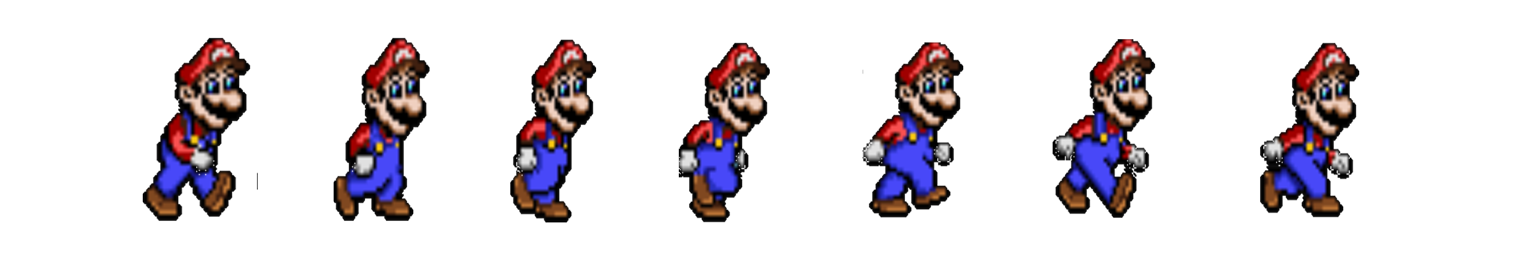
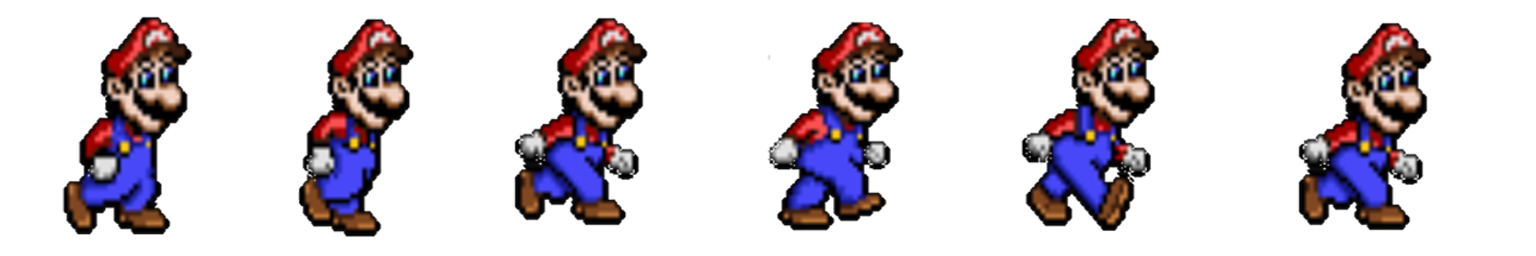
mario listo falta el fondo

diff --git a/mario.css b/mario.css
@@ -2,13 +2,18 @@
 {
   margin: 0;
   padding: 0;
+  background-image: url ("road.png");
 }
-body{
+body
+{
   display: flex;
   justify-content: center;
   align-items: center;
   min-height: 100vh;
-  background: radial-gradient(#9bdfff,#009be4);
+  /*background: radial-gradient(#9bdfff,#009be4);*/
+  
+  
+  
 }
 .infinite
 {
@@ -19,6 +24,7 @@ body{
   transform-origin: bottom;
   transform-style: preserve-3d;
   transform: perspective(500px) rotateX(30deg);
+  back
 }
 .infinite::before
 {
@@ -70,20 +76,20 @@ body{
 {
   position: relative;
   height: 256px;
-  width: calc(1536px / 7);/*aqui revisar*/
-  background: url(mario.PNG);
-  transform: perspective(500px) rotateX(-25deg) translateY(-150px);
+  width: calc(1400px / 6);/*aqui revisar*/
+  background: url(mario.png);
+  transform: perspective(500px) rotateX(-25deg) translateY(-120px);
   -webkit-box-reflect: below 1px linear-gradient (transparent 90%, #0004);
-  animation: animatemario 1s steps(6) infinite;
+  animation: animateMario 1s steps(6) infinite;
 }
-@keyframes animatemario 
+@keyframes animateMario 
 {
   from
   {
     background-position: 0;
   }
-  top
+  to
   {
-    background-position: -1536px;
+    background-position: -1436px;
   }
 }
